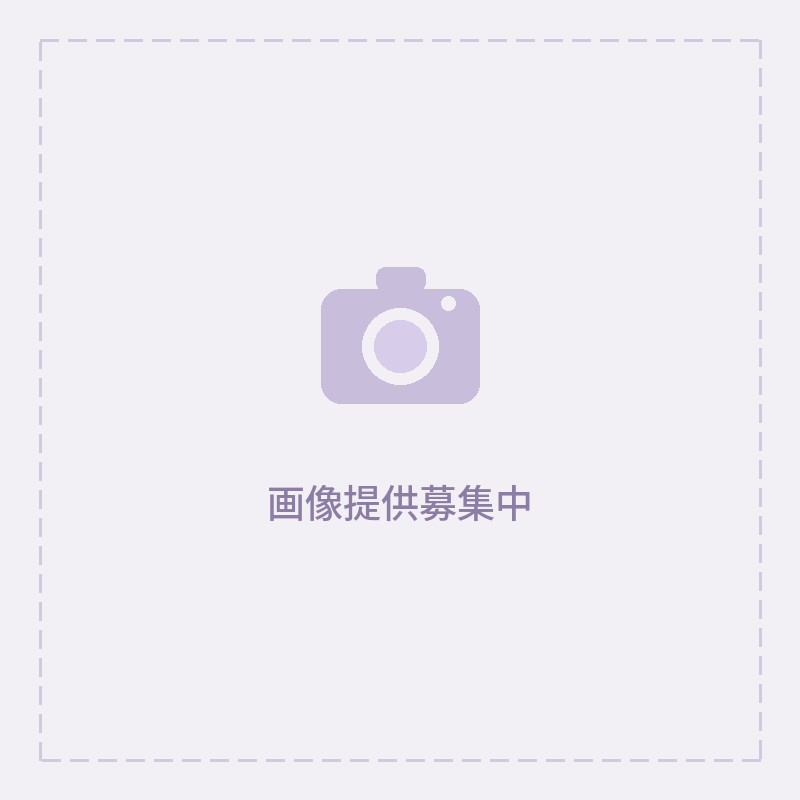
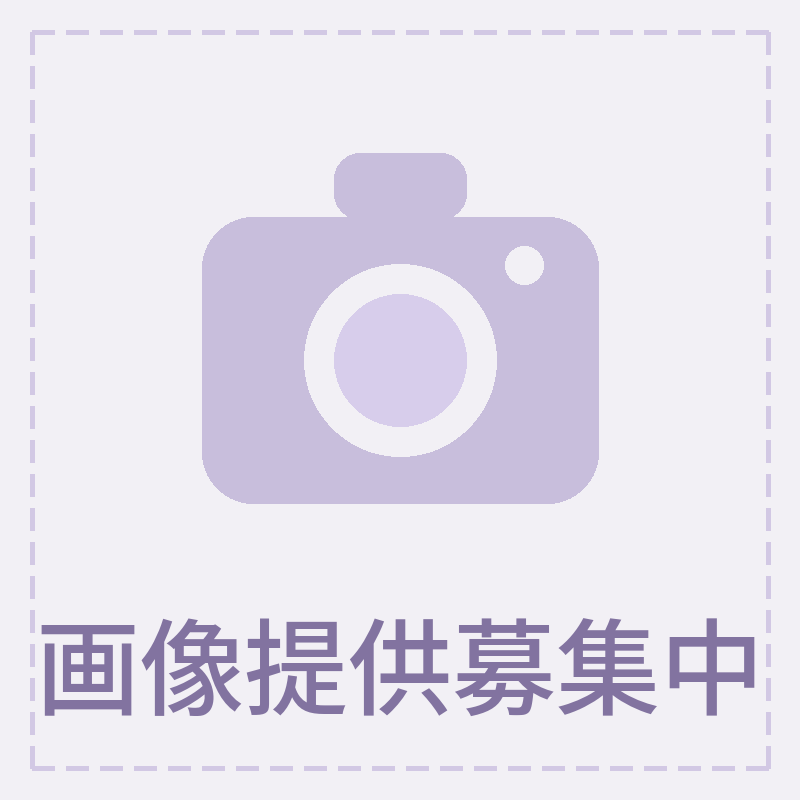
ev-shot画像タップで拡大するライトボックス機能を追加
- style.css に .sh-lightbox 系スタイルを追加（フェード＋スケールアニメーション）
- .ev-shot img に cursor: zoom-in を付与
- イベントページに #sh-lightbox オーバーレイ要素を追加
- タップ/クリックで全画面表示、オーバーレイ外タップ・×ボタン・Escで閉じる
- body スクロールロックで背景スクロールを防止

Changed region(s): [[0.0312, 0.0312, 0.9688, 0.9688], [0.25, 0.1875, 0.75, 0.6562]]

diff --git a/Mobamas/Event/Event_KirakiraModelChallenge.html b/Mobamas/Event/Event_KirakiraModelChallenge.html
@@ -1133,14 +1133,13 @@
                     <div class="v2-accord open">
                         <div class="v2-accord-head">
                             <div class="ev-accord-head-inner">
-                                <span class="speaker" data-who="心">心</span>
-                                <span class="stamp">@ ——</span>
+                                <span class="speaker" data-who="心">ログインボーナス</span>
                             </div>
                             <span class="v2-accord-arrow">▾</span>
                         </div>
                         <div class="v2-accord-body">
                             <div class="ev-dialog-row">
-                                <div class="ev-shot"></div>
+                                <div class="ev-shot"><img src="data/placeholder_4x3.png" alt="画像募集中"></div>
                                 <div class="ev-text">（セリフを入力）</div>
                             </div>
                         </div>
@@ -1273,6 +1272,12 @@
 
 </main>
 
+<!-- ライトボックス オーバーレイ -->
+<div class="sh-lightbox" id="sh-lightbox">
+    <span class="sh-lightbox-close" id="sh-lightbox-close">×</span>
+    <img class="sh-lightbox-img" id="sh-lightbox-img" src="" alt="">
+</div>
+
 <script>
 (function () {
     const pills = document.querySelectorAll('#scenes-list .scene-pill');
@@ -1288,6 +1293,31 @@
             h.parentElement.classList.toggle('open');
         });
     });
+
+    // ライトボックス
+    const lb    = document.getElementById('sh-lightbox');
+    const lbImg = document.getElementById('sh-lightbox-img');
+    const lbClose = document.getElementById('sh-lightbox-close');
+    function openLb(src, alt) {
+        lbImg.src = src;
+        lbImg.alt = alt || '';
+        lb.classList.add('open');
+        document.body.style.overflow = 'hidden';
+    }
+    function closeLb() {
+        lb.classList.remove('open');
+        document.body.style.overflow = '';
+    }
+    document.querySelectorAll('.ev-shot img').forEach(function (img) {
+        img.addEventListener('click', function (e) {
+            e.stopPropagation();
+            openLb(img.src, img.alt);
+        });
+    });
+    lb.addEventListener('click', closeLb);
+    lbClose.addEventListener('click', function (e) { e.stopPropagation(); closeLb(); });
+    lbImg.addEventListener('click', function (e) { e.stopPropagation(); });
+    document.addEventListener('keydown', function (e) { if (e.key === 'Escape') closeLb(); });
 })();
 </script>
 

diff --git a/style.css b/style.css
@@ -4483,6 +4483,50 @@ input[name="dialogue-tab"] {
     flex: 1;
     min-width: 0;
 }
+.ev-shot img { cursor: zoom-in; }
+
+/* ── ライトボックス ── */
+.sh-lightbox {
+    position: fixed;
+    inset: 0;
+    background: rgba(0,0,0,0.88);
+    z-index: 9999;
+    display: flex;
+    align-items: center;
+    justify-content: center;
+    cursor: zoom-out;
+    opacity: 0;
+    pointer-events: none;
+    transition: opacity 0.22s ease;
+}
+.sh-lightbox.open {
+    opacity: 1;
+    pointer-events: auto;
+}
+.sh-lightbox-img {
+    max-width: 92vw;
+    max-height: 88vh;
+    object-fit: contain;
+    border-radius: var(--r-md);
+    box-shadow: 0 8px 40px rgba(0,0,0,0.7);
+    transform: scale(0.94);
+    transition: transform 0.22s ease;
+    cursor: default;
+}
+.sh-lightbox.open .sh-lightbox-img { transform: scale(1); }
+.sh-lightbox-close {
+    position: absolute;
+    top: 16px;
+    right: 20px;
+    color: #fff;
+    font-size: 32px;
+    line-height: 1;
+    cursor: pointer;
+    opacity: 0.72;
+    user-select: none;
+    padding: 4px 8px;
+}
+.sh-lightbox-close:hover { opacity: 1; }
 
 /* 劇場 */
 /* 劇場・ギャラリー・関連ページ 2カラムレイアウト（PC） */
